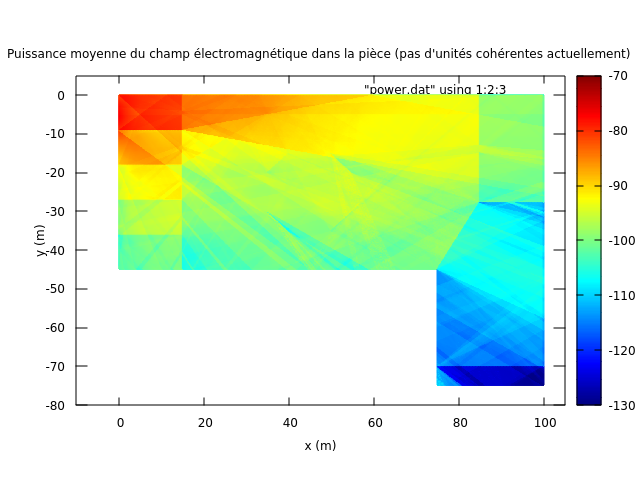
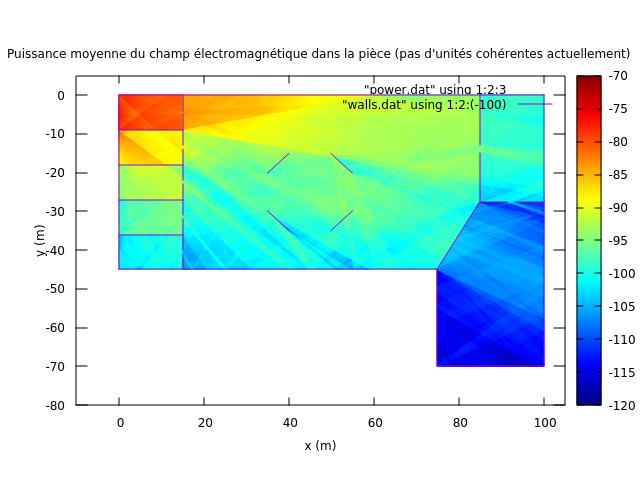
Walls now appear on the power plot

diff --git a/main.cpp b/main.cpp
@@ -126,7 +126,7 @@ int main() {
 
         const double h = 10; // nombre de pas par mètre
         const double Lx = 100.0;
-        const double Ly = 75.0;
+        const double Ly = 70.0;
         double power = 0.0;
 
         double progress_save = -1; // -1 pour être sûr que la barre est affichée immédiatement

diff --git a/wall.cpp b/wall.cpp
@@ -64,5 +64,5 @@ int Wall::getType() {
 }
 
 void Wall::print_wall_to_file(FILE *f) {
-    fprintf(f, "%f, %f\n%f, %f\n\n", u[0], u[1], v[0], v[1]);
+    fprintf(f, "%f, %f\n%f, %f\n\n\n", u[0], u[1], v[0], v[1]);
 }
